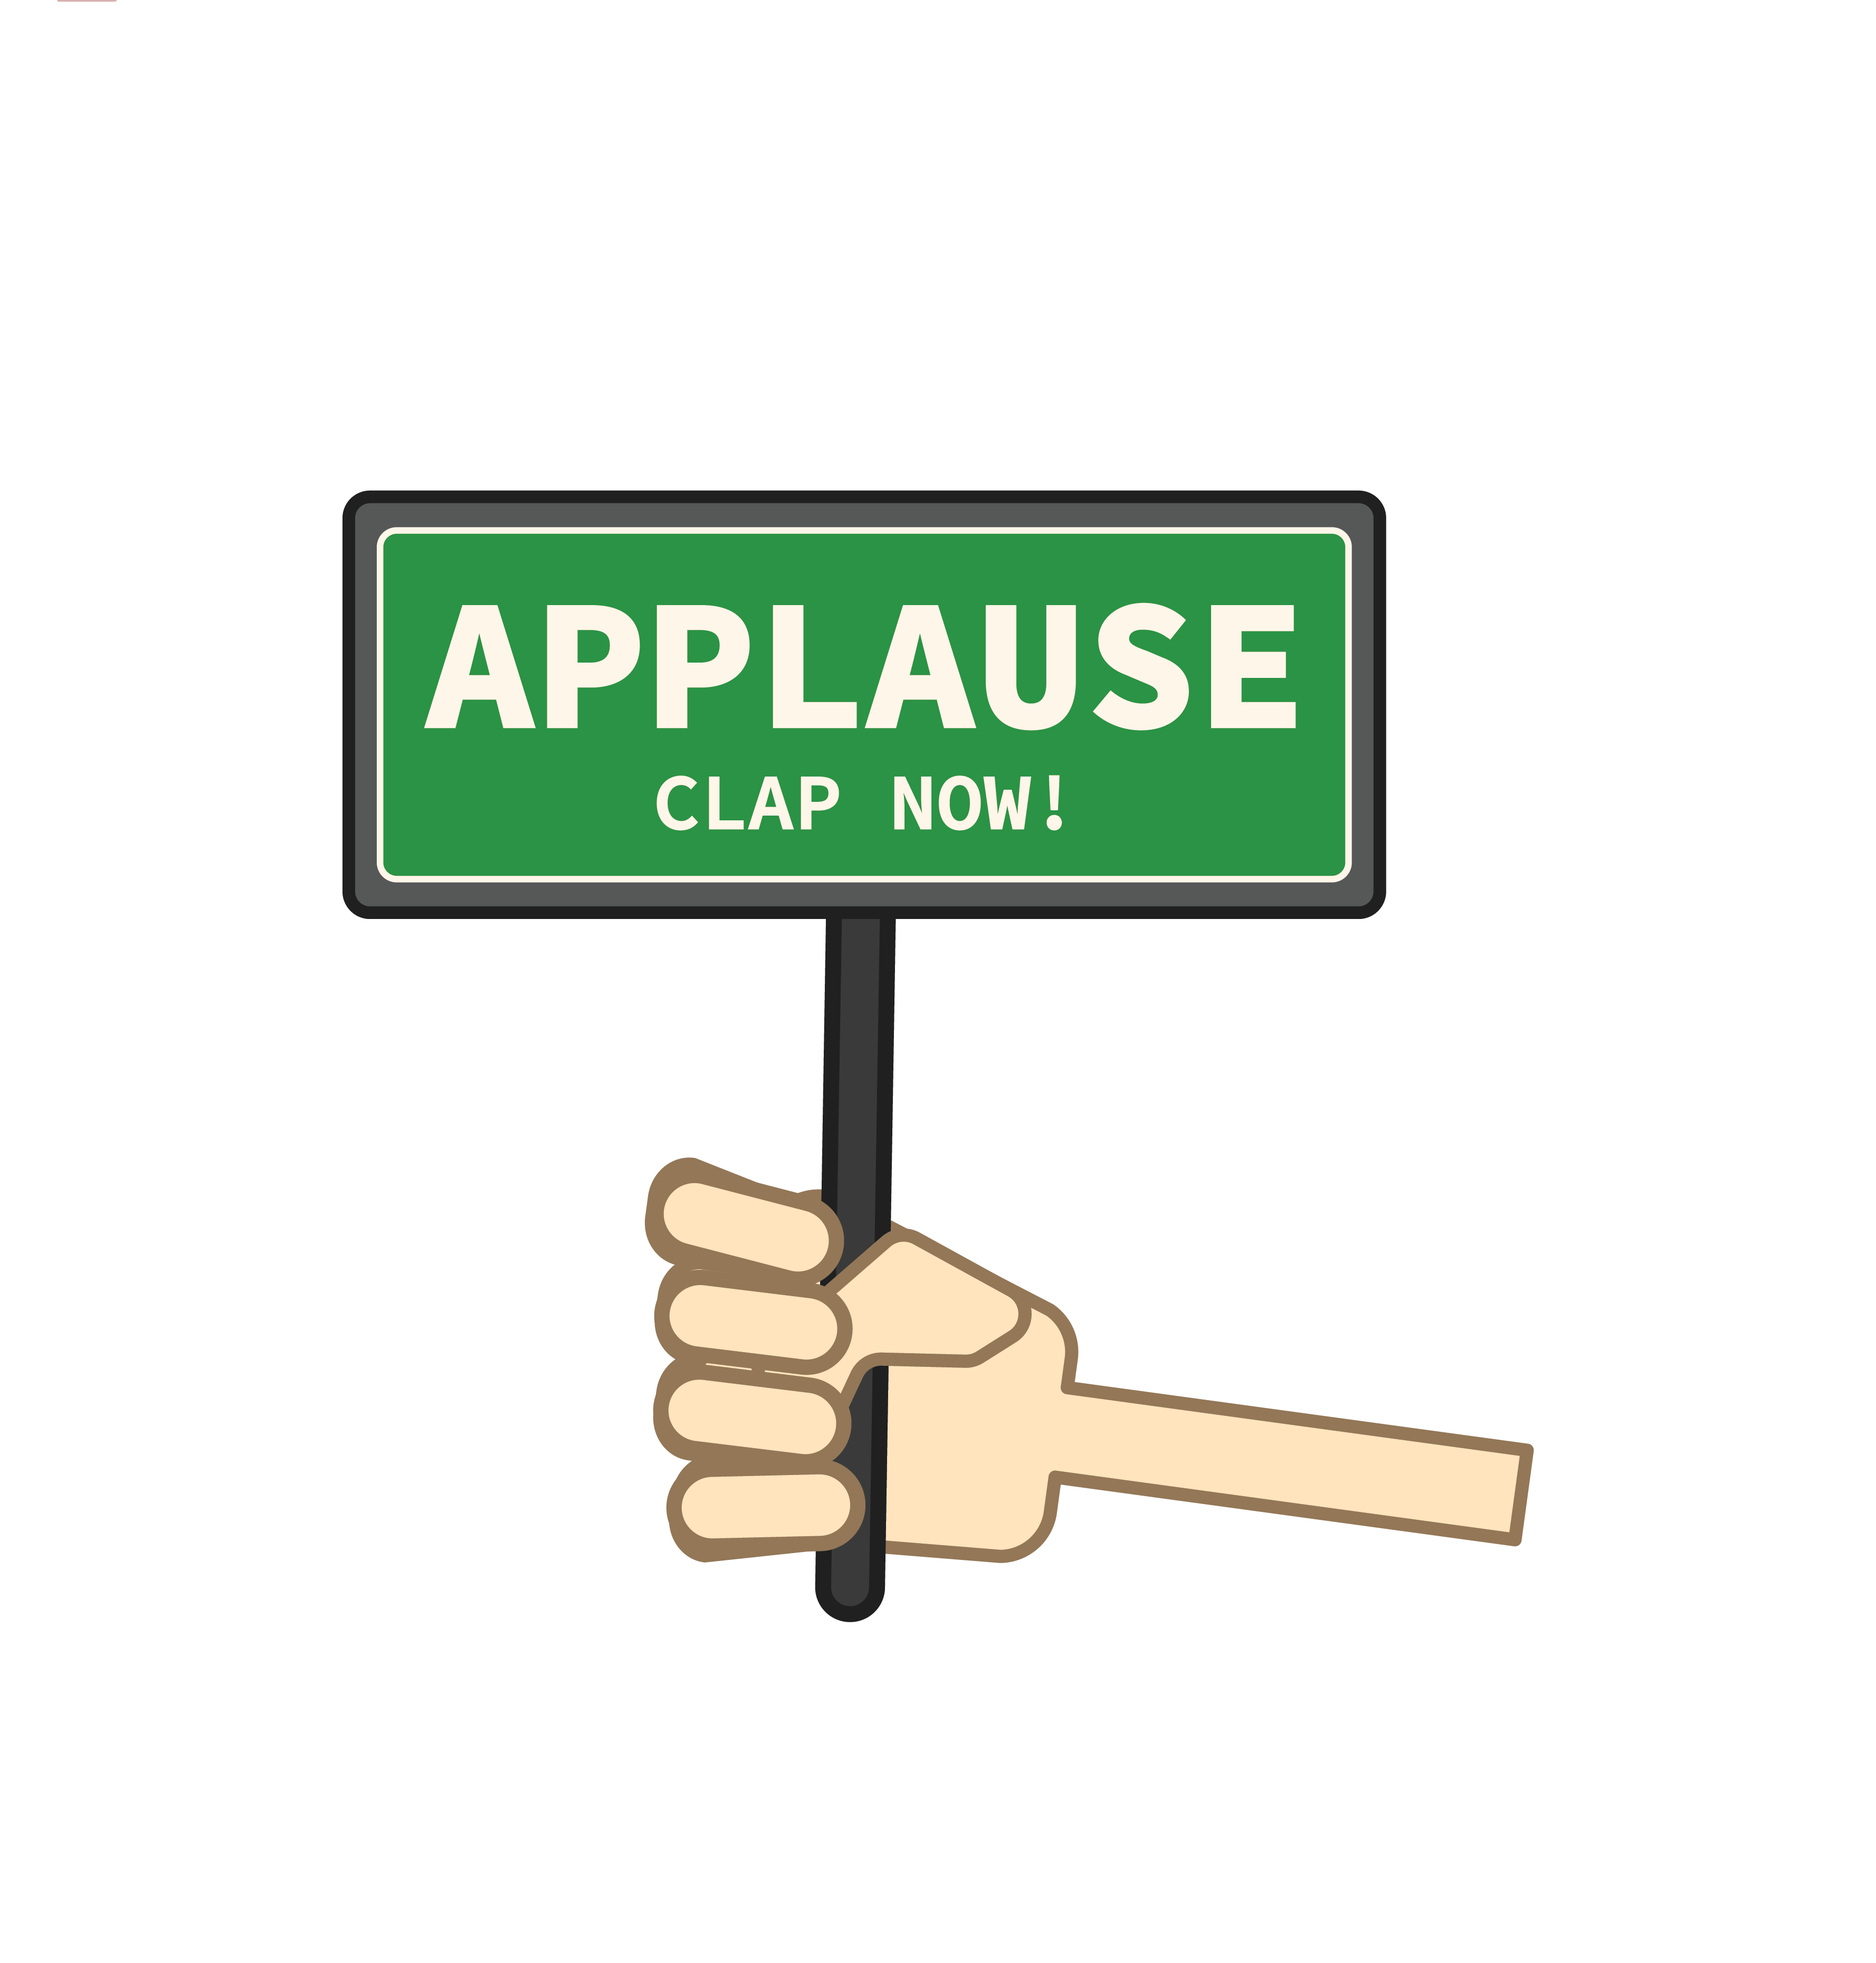
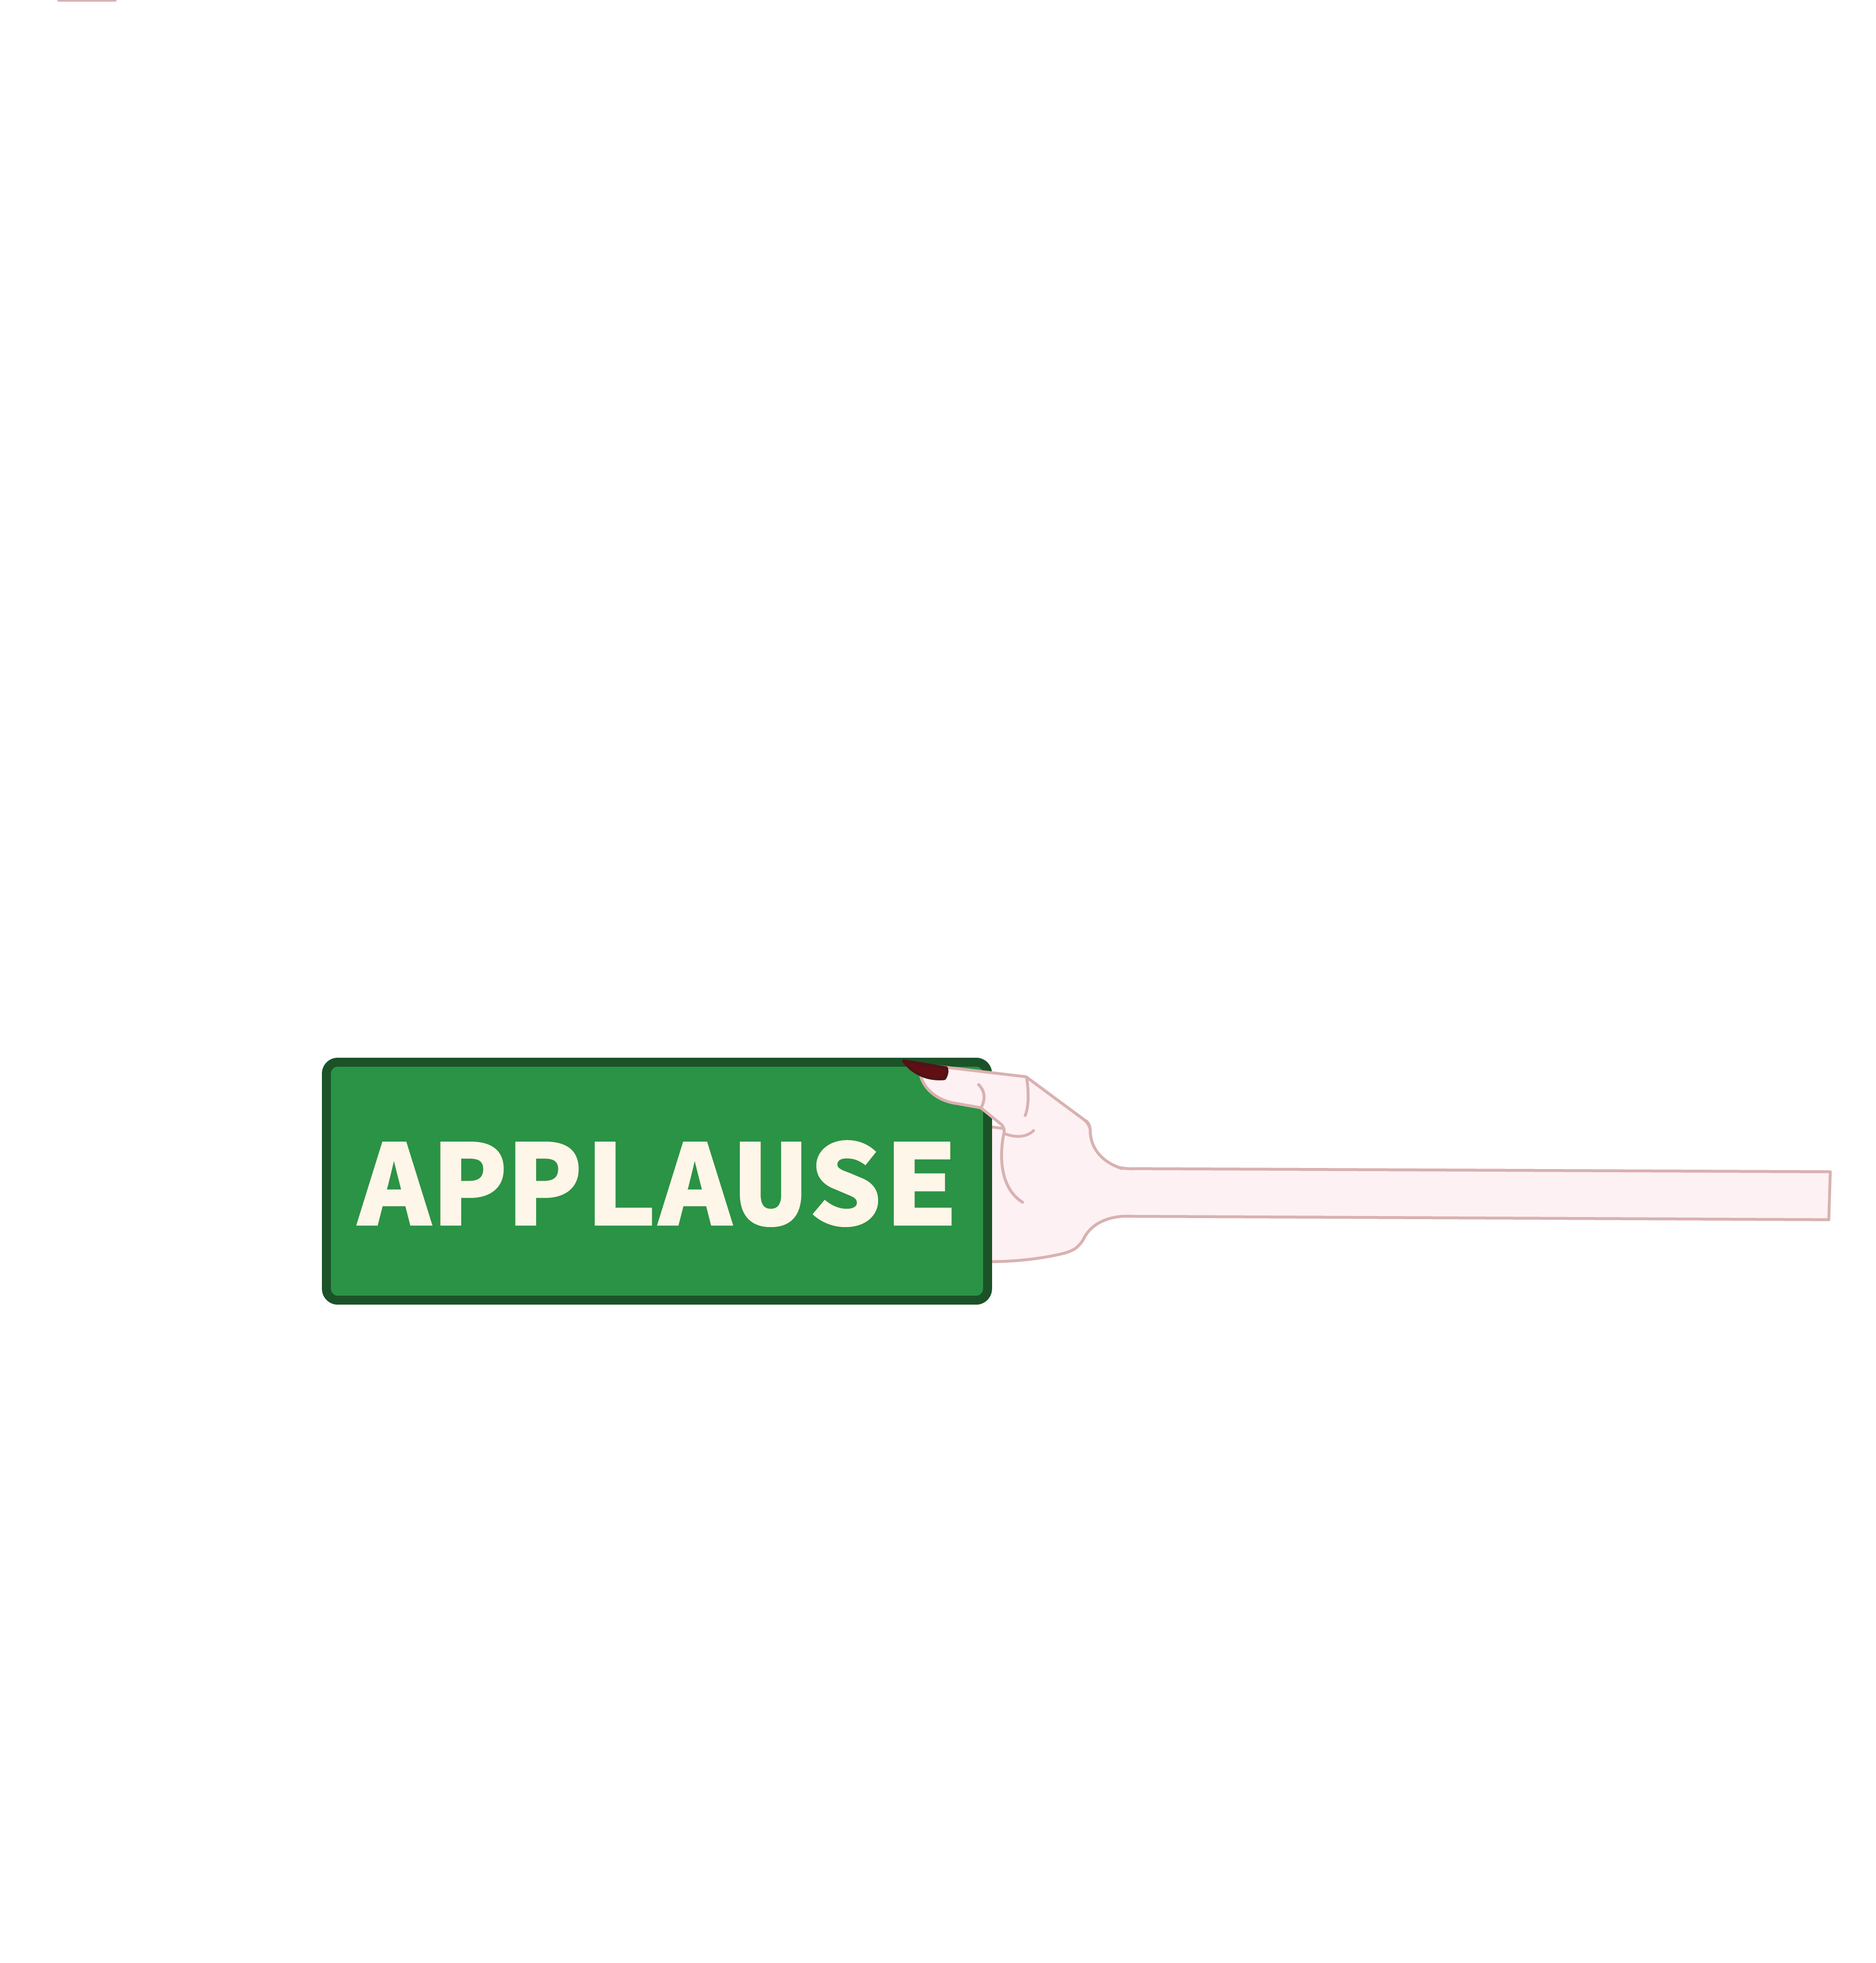
extra polish updates and changing assets

Changed region(s): [[0.1561, 0.2494, 0.8118, 0.8417], [0.5932, 0.5923, 0.9679, 0.6235]]

diff --git a/src/client/sketch.js b/src/client/sketch.js
@@ -486,7 +486,7 @@ window.setup = async function () {
 
     // Set default applause values
     applause.offScreenXPos = width
-    applause.targetXPos = width - assets.applauseSign.width / 10,
+    applause.targetXPos = (width - assets.applauseSign.width / 5) + 200
     applause.currentXPos = applause.offScreenXPos
 
     syncStateLoop();
@@ -802,7 +802,7 @@ function drawBackground() {
     assets.background.animator.update();
     assets.background.animator.draw(0, 0, 1, width, height);
     if (assets.stage) {
-        backgroundLayer.image(assets.stage, width / 10, height / 1.75, width / 1.25, height / 2);
+        backgroundLayer.image(assets.stage, width / 10, height / 1.75, width / 1.15, height / 2);
     }
     if (assets.stagelights) {
         backgroundLayer.image(assets.stagelights, 0, -45, width, height / 3);
@@ -834,12 +834,12 @@ function drawAudience() {
 }
 function drawHUD() {
     if (assets.timer) {
-        image(assets.timer, -20, 60, assets.timer.width / 5, assets.timer.height / 5);
+        image(assets.timer, -20, 55, assets.timer.width / 5, assets.timer.height / 5);
         drawCountdown();
     }
     if (assets.stars) {
         let x = 10
-        let y = -10
+        let y = -15
 
         fill('#d9d9d9')
         rect(x + 15, y + 70, 250 * 2 / 3 + 70, 50 * 2 / 3);
@@ -850,22 +850,20 @@ function drawHUD() {
     }
     if (assets.score) {
         push()
-        image(assets.score, width - 250, -22, assets.score.width / 5, assets.score.height / 5);
+        image(assets.score, width - 250, -27, assets.score.width / 5, assets.score.height / 5);
         //Let's make this look better
         fill('#000000');
         textFont(scoreFont);
         textSize(60);
-        // scale(1.3, 1);
-        // text(nf(RTSstate.score * 10, 4), width - 100, 60);
 
         // 1xxx
-        text(floor(RTSstate.score / 100) % 10, width - 189, 60)
+        text(floor(RTSstate.score / 100) % 10, width - 189, 55)
         // x1xx
-        text(floor(RTSstate.score / 10) % 10, width - 141.5, 60)
+        text(floor(RTSstate.score / 10) % 10, width - 141.5, 55)
         // xx1x
-        text(floor(RTSstate.score / 1) % 10, width - 95, 60)
+        text(floor(RTSstate.score / 1) % 10, width - 95, 55)
         // xxx0
-        text(0, width - 49, 60)
+        text(0, width - 49, 55)
         pop()
     }
 }
@@ -878,7 +876,7 @@ function drawCountdown() {
         textFont(countdownFont);
         textSize(32);
         textAlign(CENTER, CENTER);
-        text(seconds, 112, 148);
+        text(seconds, 112, 143);
 
         if (remaining === 0) {
             timerActive = false;
@@ -916,9 +914,9 @@ function stopApplauseFlash() {
 
 function drawApplauseSign() {
     if(assets.applauseSign) {
-        let assetWidth = assets.applauseSign.width / 10
-        let assetHeight = assets.applauseSign.height / 10
-        image(assets.applauseSign, applause.currentXPos, height - (assetHeight * 1.5), assetWidth, assetHeight)
+        let assetWidth = assets.applauseSign.width / 5
+        let assetHeight = assets.applauseSign.height / 5
+        image(assets.applauseSign, applause.currentXPos, height - (assetHeight * 0.85), assetWidth, assetHeight)
     }
 }
 
@@ -1015,7 +1013,7 @@ function drawSpotlight() {
         } else {
             backgroundLayer.noTint();
         }
-        imageMode(CORNER)
+        imageMode(CENTER)
         backgroundLayer.image(assets.spotlight, newJoystickPosition, 300,
             assets.spotlight.width / 12, assets.spotlight.height / 12);
         backgroundLayer.noTint();

diff --git a/src/server/game.js b/src/server/game.js
@@ -364,16 +364,14 @@ class GameMachine {
             if(this.debounce === false) {
                 setTimeout(() => {this.debounce = true}, 1000);
             } else {
-                if (event.name === this.events.APPLAUSE_BUTTON_PRESSED) {
+                // Scan RFID to exit early
+                if (event.name === this.events.RFID_SCAN) { 
                     this.debounce = false;
-                    turnOffApplauseLED();
                     moveToPlaying(this);
                     this.sendOscCue(this.lighting.START_GAME)
                 }
             }
-            turnOnApplauseLED();
             if (event.name === this.events.ONBOARDING_COMPLETE) {
-                turnOffApplauseLED();
                 moveToPlaying(this);
                 this.sendOscCue(this.lighting.START_GAME)
             }
